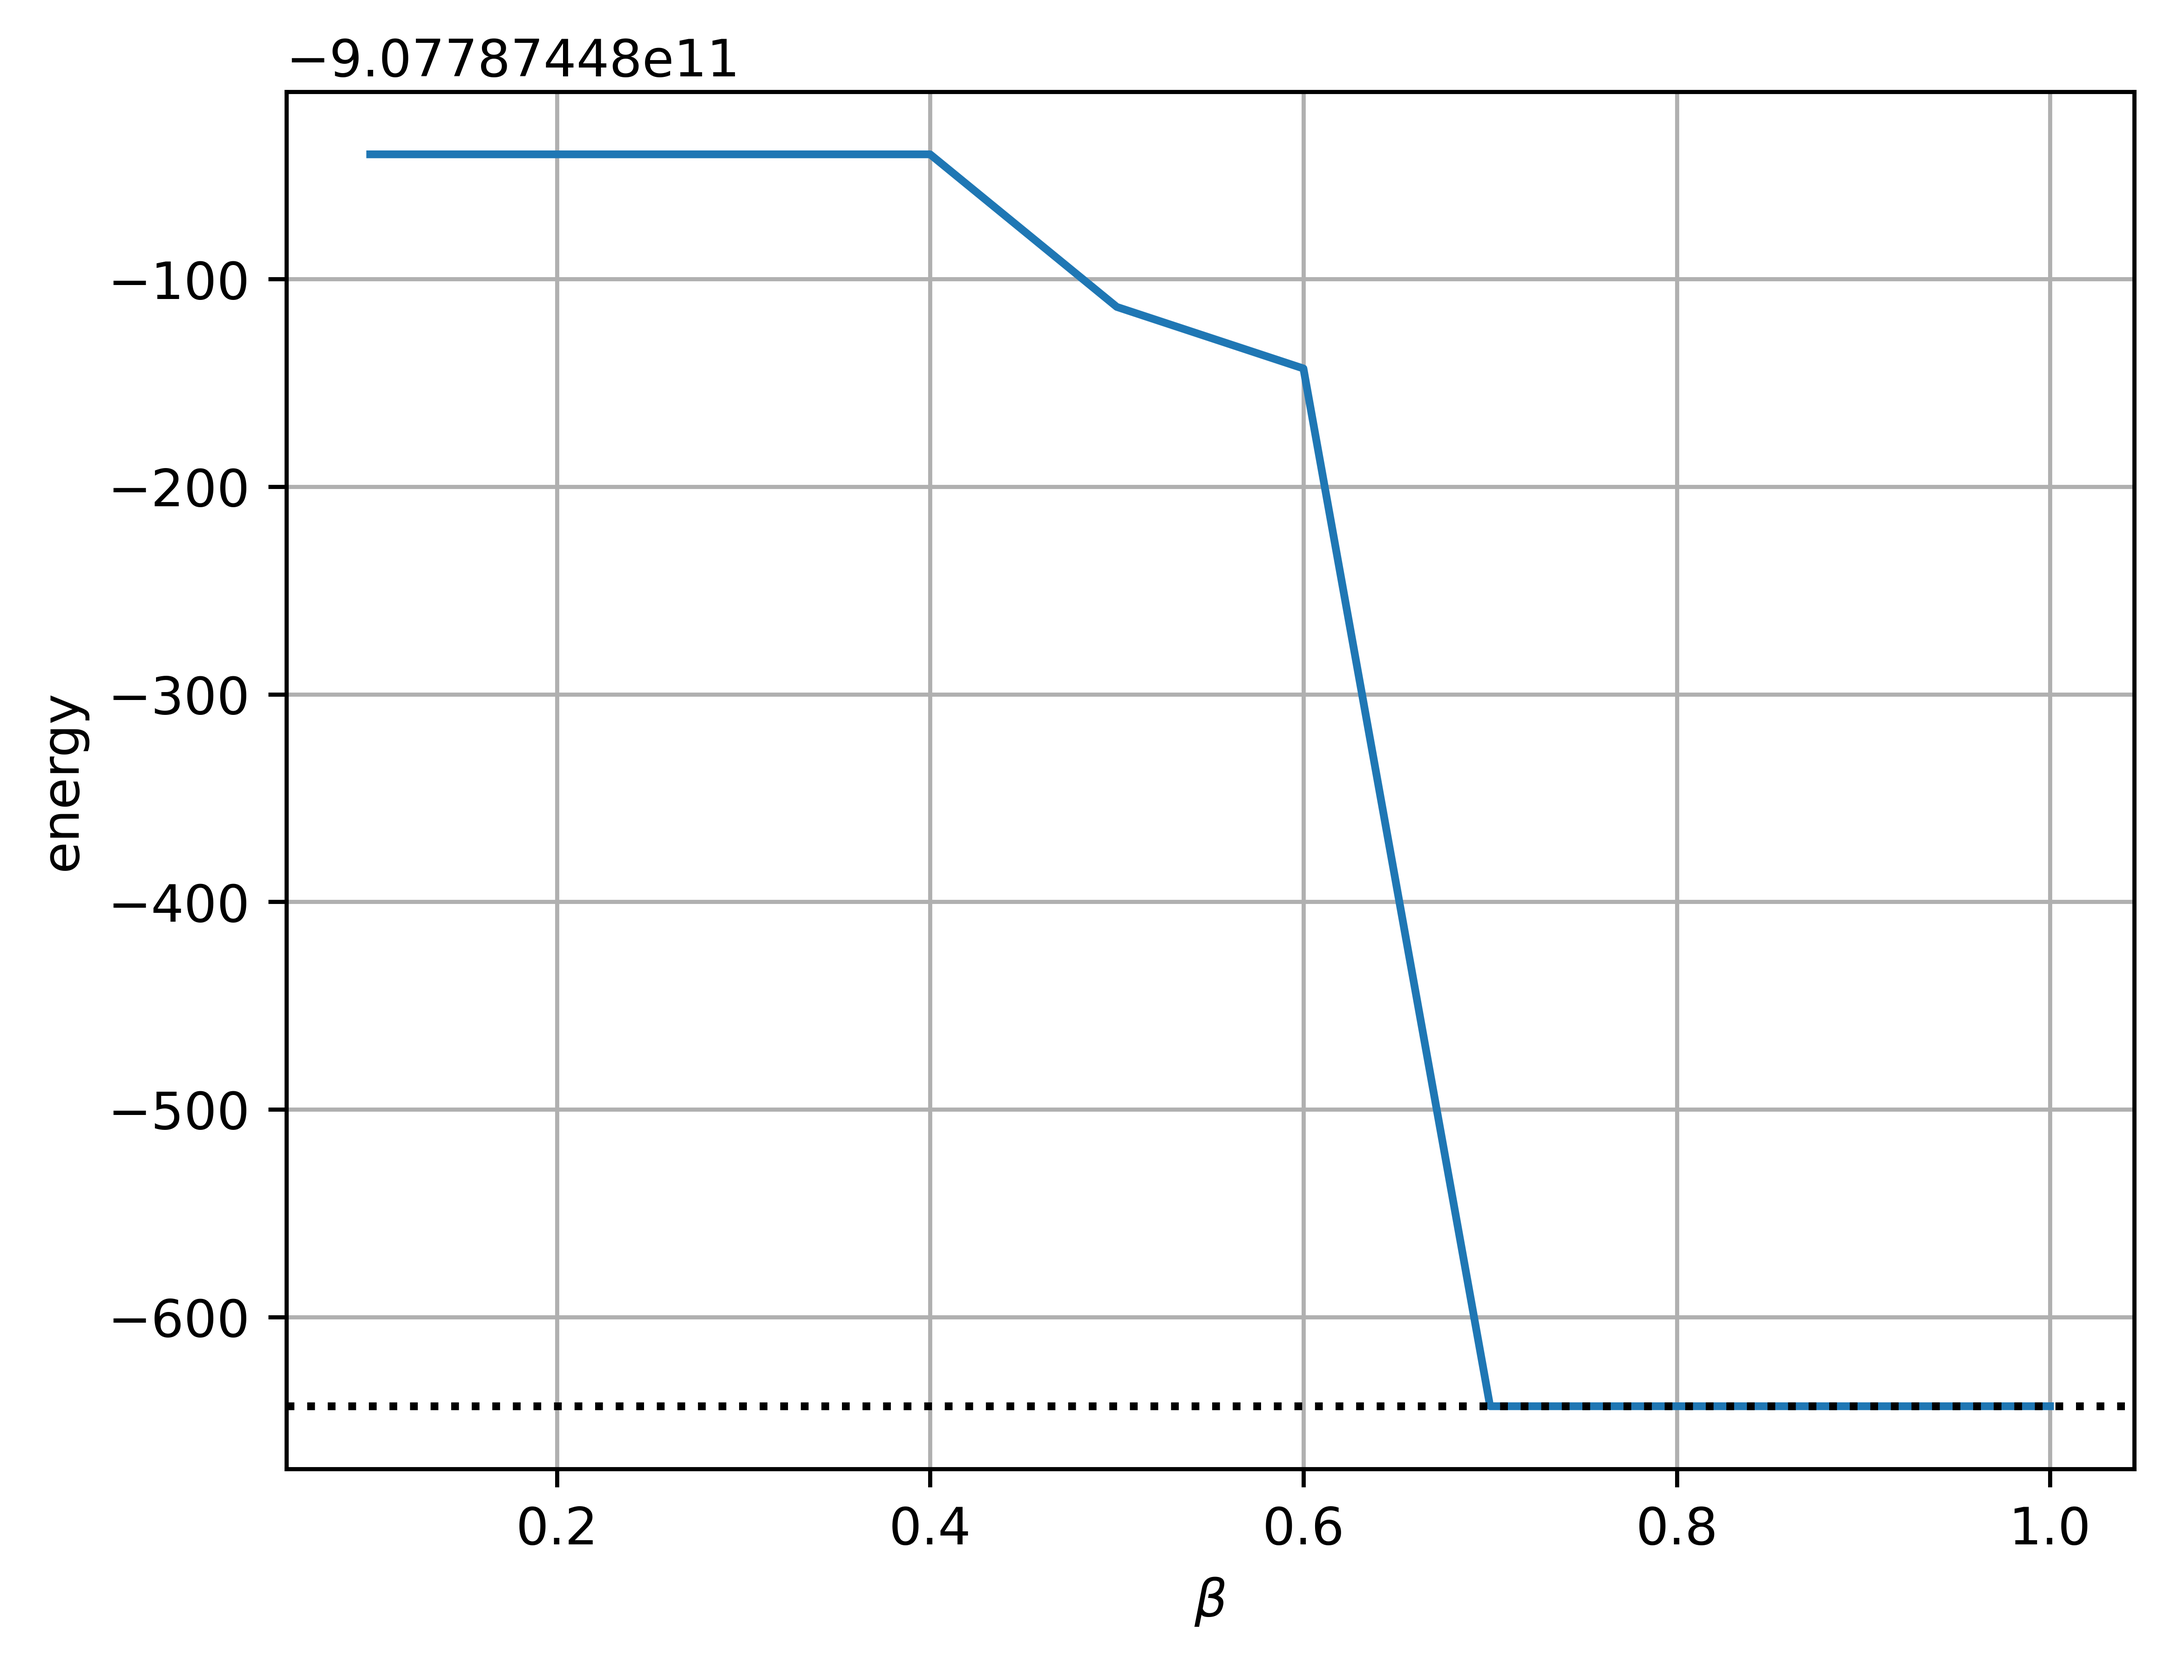
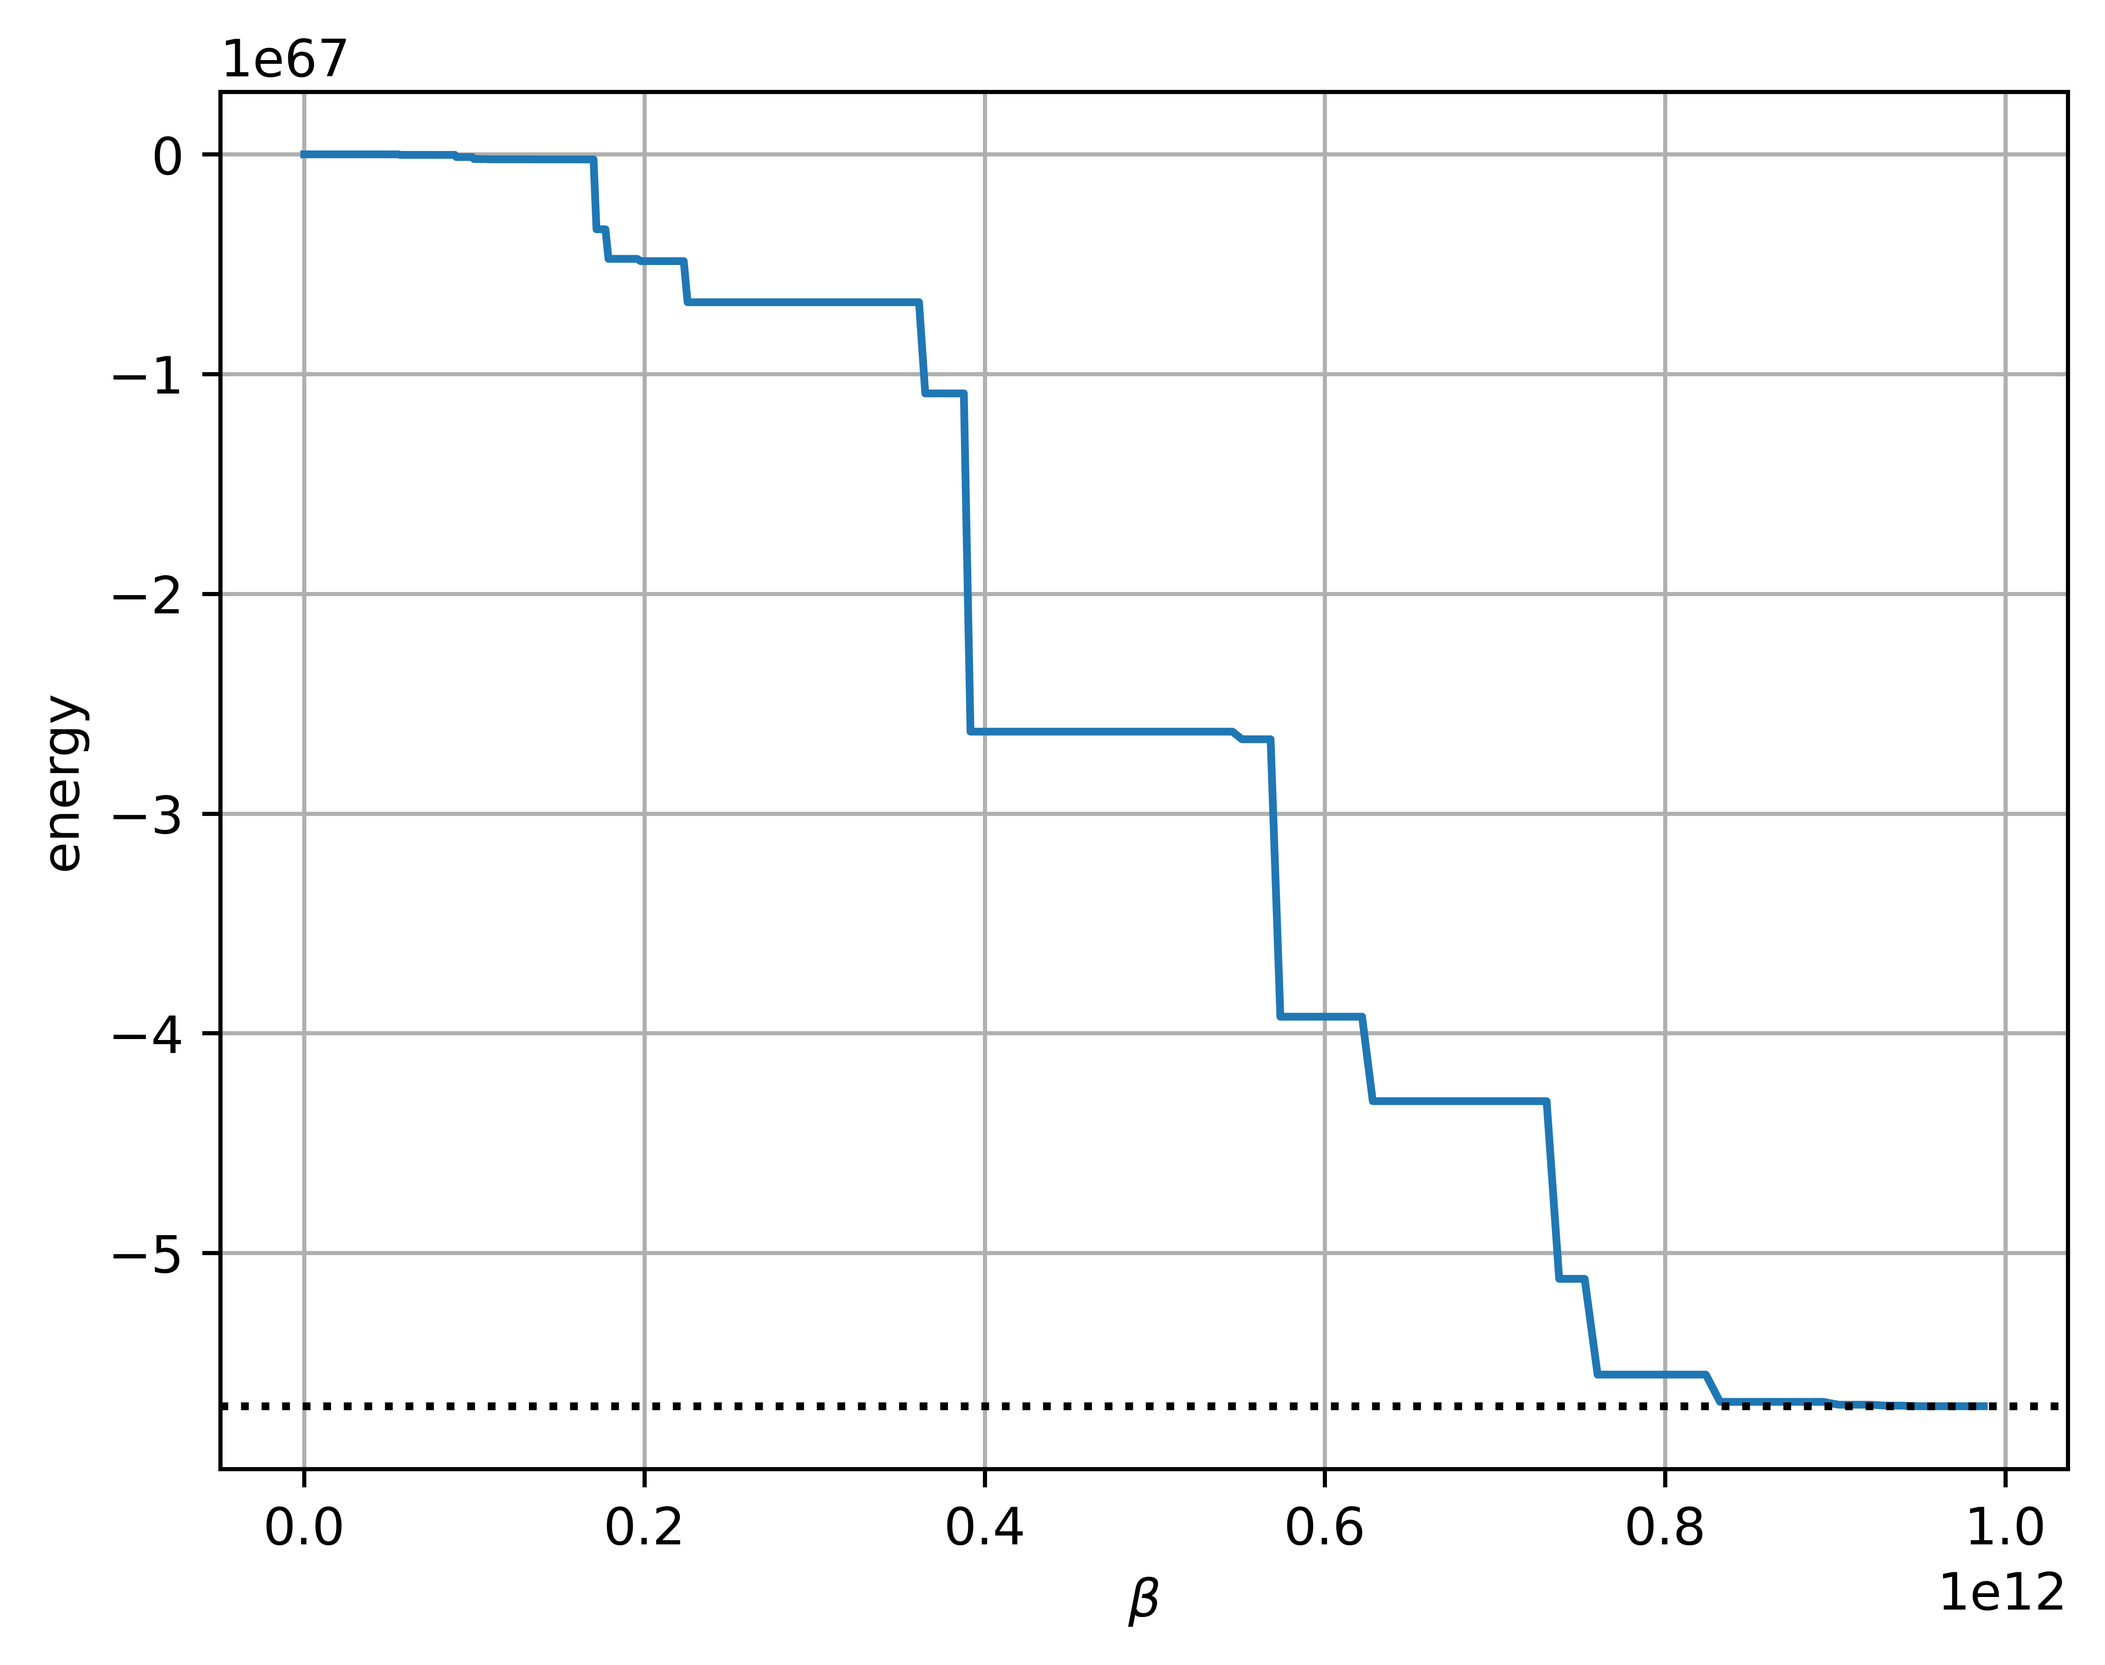
first working version

diff --git a/run.py b/run.py
@@ -9,20 +9,22 @@ import matplotlib as mpl
 import matplotlib.pyplot as plt
 import numpy as np
 import time
-from src import get_energy, get_residue_positions
+from mpl_toolkits.mplot3d import Axes3D
+from src import get_energy, get_conformation
 
 
 def example(callback):
     
-    length = 5
-    num_steps = 10
+    length = 21
+    num_steps = 2749
     res = np.random.choice([0,1], (length))
     # define annealing arguments, track time to run
     kwargs = {
         'residues': res, 
-        'num_iterations': num_steps, 
-        'high_temp': 10.0,  
-        'low_temp': 1.0, 
+        'start_temp': 1.0,
+        'end_temp': 10**(-12), 
+        'gamma': 0.99,
+        'lam': 3.0,
     }
     
     # perform run
@@ -31,14 +33,14 @@ def example(callback):
     present = time.perf_counter()
     sec_elapsed = present - past
     print(f'Annealer run with {num_steps:.0f} steps took {sec_elapsed:.3f} seconds')
-    
+    print(f'Lowest Energy: {run.optimalest_energy} \n Optimal Energy: {run.optimal_energies[-1]}')
     # if callback specified, results are already printed by callback
     if callback:
         return
 
     # if callback not specified, plot results
-    plt.plot(run.param_inv_temps, run.param_energies)
-    plt.axhline(get_energy(param_alpha=run.param_alpha, param_beta=run.param_beta, param_residues=res, param_residue_positions=get_residue_positions(res.size, run.param_alpha, run.param_beta)), color='black', linestyle=':')
+    plt.plot(run.param_inv_temps, run.optimal_energies)
+    plt.axhline(run.optimalest_energy, color='black', linestyle=':')
     plt.grid()
     plt.xlabel(r'$\beta$')
     plt.ylabel('energy')
@@ -46,17 +48,41 @@ def example(callback):
     plt.close()
     
     # plot num accepts and num rejects
-    plt.plot(np.arange(num_steps) / 1e+3, run.param_num_accepts / 1e+3)
+    plt.plot(np.arange(num_steps) / 1e+3, run.param_num_rejects / 1e+3)
     plt.grid()
     plt.xlabel('metropolis step / $10^3$')
     plt.ylabel('number of acceptances / $10^3$')
     plt.savefig('num_accepts.png', dpi=800, bbox_inches='tight')
     plt.close()
-
-
-if __name__ == '__main__':
-
-    mpl.use('Agg')
     
-    # run example without a callback
-    example(None)
+    optimal_conformation = run.optimalest_conformation
+    if optimal_conformation.shape[1] != 3:
+        raise ValueError("The optimal conformation must have 3 columns representing x, y, z coordinates.")
+    
+    # Plotting the optimal conformation
+    fig = plt.figure()
+    ax = fig.add_subplot(111, projection='3d')
+
+    # Plot each residue as a point
+    ax.scatter(optimal_conformation[:, 0], optimal_conformation[:, 1], optimal_conformation[:, 2], c='k', marker='o',s=100)
+    
+    # Optionally, connect the residues with lines to visualize the backbone
+    for i in range(len(optimal_conformation) - 1):
+        ax.plot([optimal_conformation[i, 0], optimal_conformation[i + 1, 0]],
+                [optimal_conformation[i, 1], optimal_conformation[i + 1, 1]],
+                [optimal_conformation[i, 2], optimal_conformation[i + 1, 2]], c='k', lw=1)
+    
+    # Add labels and title
+    ax.set_xlabel('X')
+    ax.set_ylabel('Y')
+    ax.set_zlabel('Z')
+    ax.set_title('Optimal Protein Conformation')
+    
+    # Show the plot
+    plt.savefig('conformation.png', dpi=800, bbox_inches='tight')
+    plt.show()
+    plt.close()
+
+
+
+example(None)

diff --git a/src.py b/src.py
@@ -141,12 +141,12 @@ def annealer(
     """
     
     if init_alpha is None: 
-        alpha_v = -pi + np.random.uniform(0,1)*2*np.pi
+        alpha_v = -np.pi + 2*np.pi*np.random.uniform(size=(residues.shape[0]-2),low=0,high=1)
     else: 
         alpha_v = init_alpha
     
     if init_beta is None: 
-        beta_v = -pi + np.random.uniform(0,1)*2*np.pi 
+        beta_v = -np.pi + 2*np.pi*np.random.uniform(low=0,high=1, size=(residues.shape[0]-3))
     else: 
         beta_v = init_beta
     
@@ -160,7 +160,7 @@ def annealer(
 
     inv_temps = 1/start_temp*np.power(1/gamma, np.arange(num_iterations))
     energies = np.zeros(num_iterations)
-    conformations = np.zeros((num_iterations, residues.shape))
+    conformations = np.zeros((num_iterations, residues.shape[0], 3))
     accepts = np.zeros(num_iterations)
     rejects = np.zeros(num_iterations)
     conformation = get_conformation(
@@ -203,13 +203,12 @@ def annealer(
             param_size=residues.shape[0]
         )
         
-        args['param_alpha', 'param_beta', 'param_conformation'] = new_alpha_v, new_beta_v, new_conformation
-        
+        args['param_alpha'], args['param_beta'], args['param_conformation'] = new_alpha_v, new_beta_v, new_conformation
         # Calculate the changes in energy level
         new_energy = get_energy(**args) 
         energy_change = new_energy - energy
-        print(energy_change)
-
+        
+        
         # get the boltzmann factor corresponding to the change
         boltzmann_factor = np.exp(-inv_temps[step]*energy_change)
         
